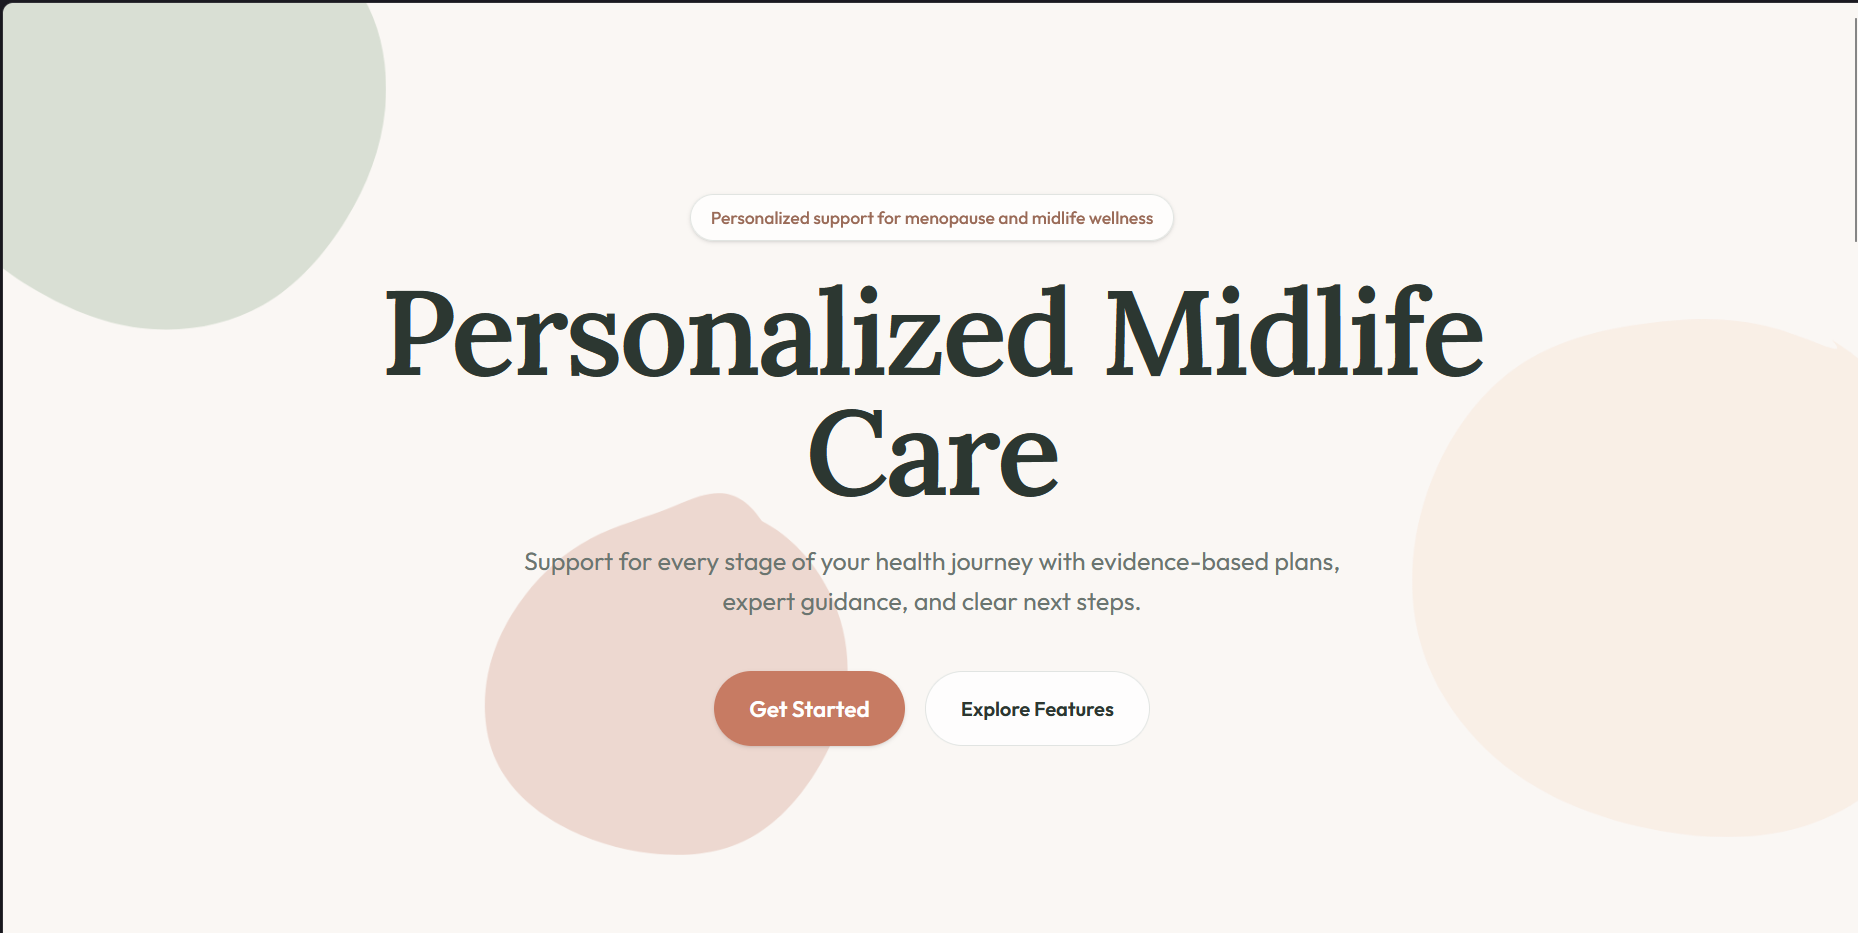
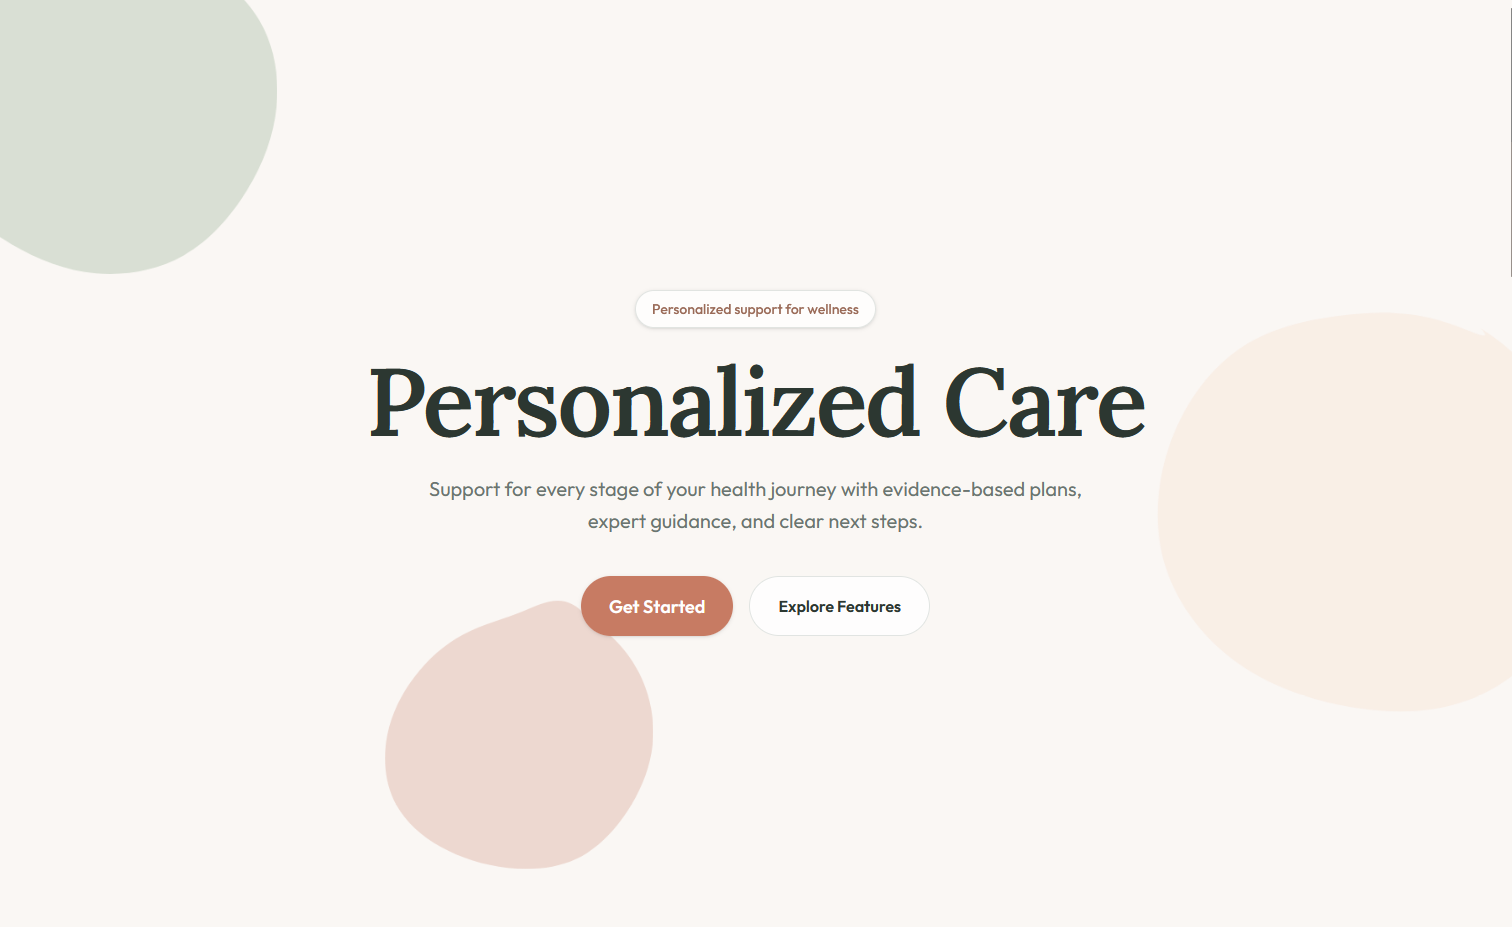
misc branding generic

diff --git a/src/app/sections/HeroSection.tsx b/src/app/sections/HeroSection.tsx
@@ -9,10 +9,10 @@ export function HeroSection() {
       <Container className="relative z-10">
         <div className="mx-auto flex max-w-4xl flex-col items-center text-center">
           <span className="mb-6 inline-flex rounded-full border border-border bg-white/70 px-4 py-2 text-sm font-medium text-[var(--bloom-clay)] shadow-sm backdrop-blur-sm">
-            Personalized support for menopause and midlife wellness
+            Personalized support for wellness
           </span>
           <h1 className="text-5xl tracking-tight sm:text-6xl lg:text-8xl" style={{ fontWeight: 600 }}>
-            Personalized Midlife Care
+            Personalized Care
           </h1>
           <p className="mt-6 max-w-2xl text-lg leading-8 text-muted-foreground sm:text-xl">
             Support for every stage of your health journey with evidence-based plans, expert guidance, and clear next

diff --git a/src/app/sections/FeaturesSection.tsx b/src/app/sections/FeaturesSection.tsx
@@ -13,7 +13,7 @@ const features = [
   {
     title: "Expert Guidance",
     description:
-      "Connect with providers who understand menopause and midlife wellness, with support that feels informed and approachable.",
+      "Connect with providers who understand wellness, with support that feels informed and approachable.",
     icon: <TeamIcon className="h-7 w-7" />,
   },
   {

diff --git a/src/app/sections/FooterCtaSection.tsx b/src/app/sections/FooterCtaSection.tsx
@@ -18,7 +18,7 @@ export function FooterCtaSection() {
             Take control of your health today
           </h2>
           <p className="mx-auto max-w-2xl text-xl leading-8 text-white/90">
-            Join thousands of women who have found more clarity, confidence, and support for their midlife journey.
+            Join thousands of people who have found more clarity, confidence, and support for their life journey.
           </p>
           <PrimaryButton variant="secondary" className="text-lg">
             Join Now